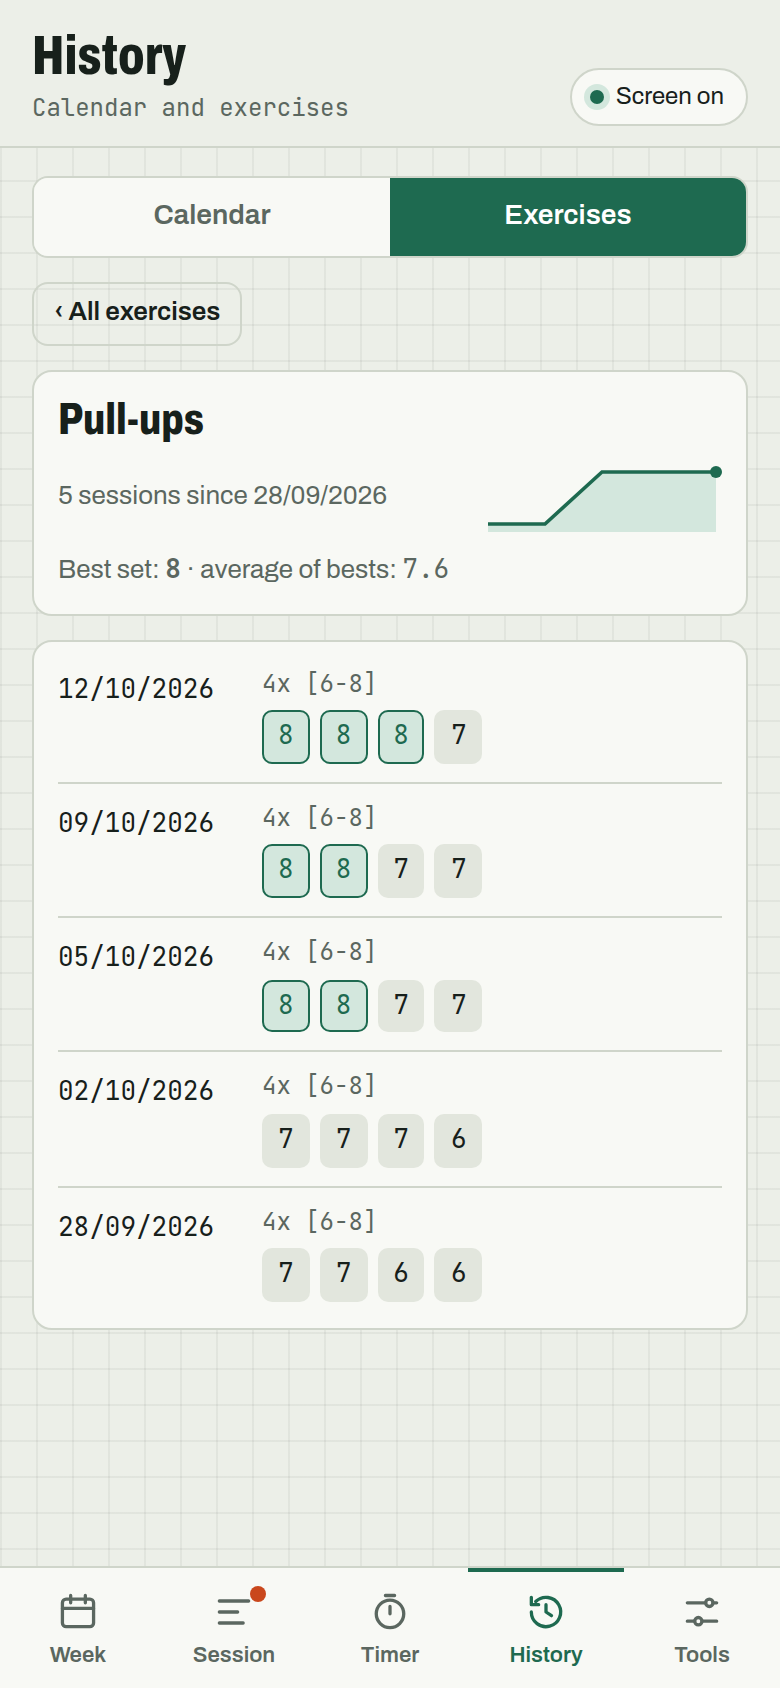
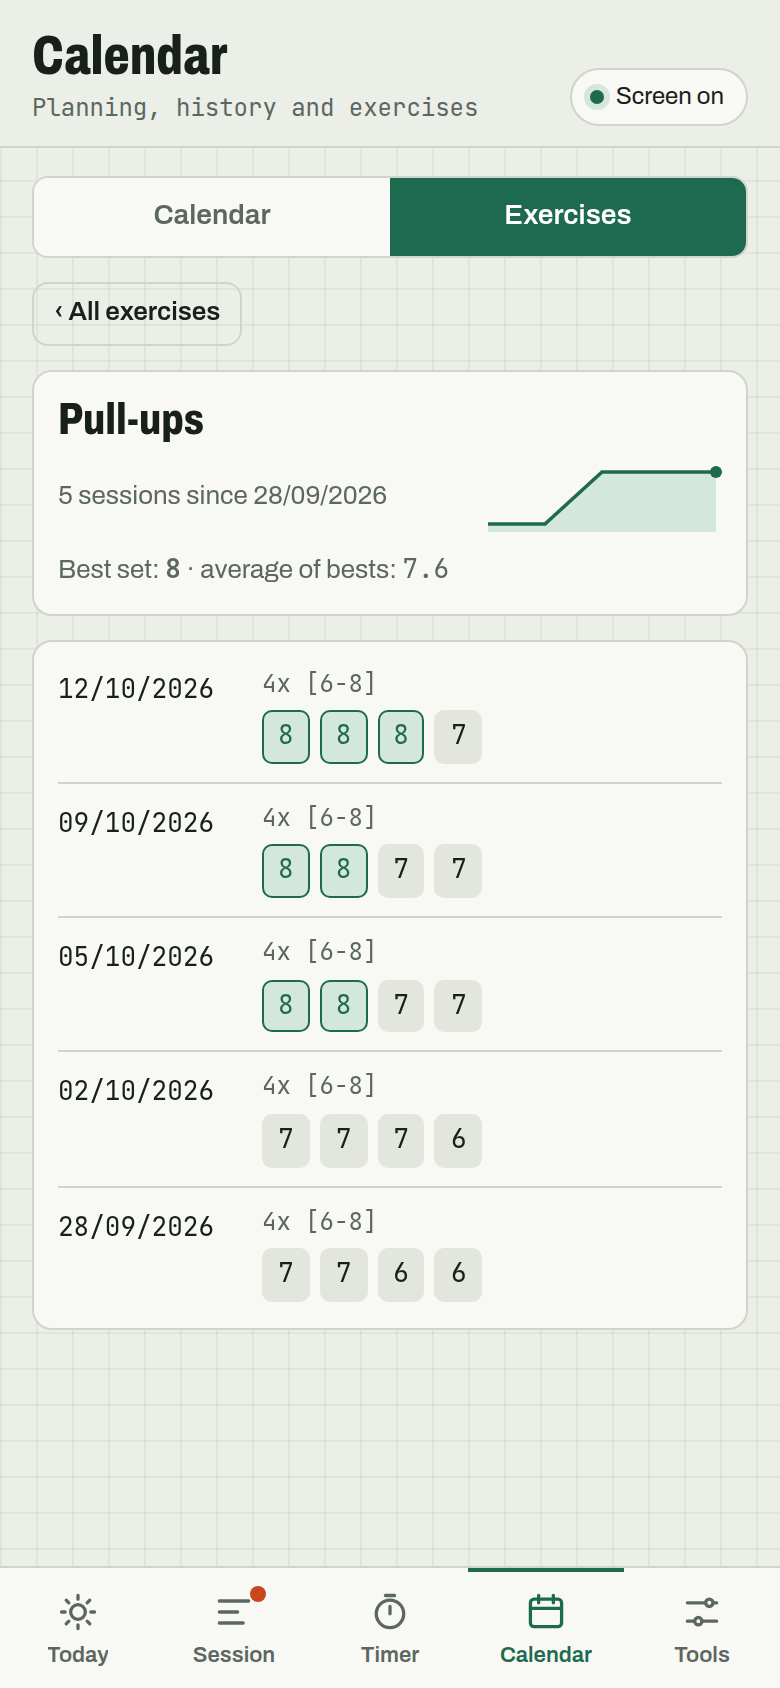
docs(readme): describe planning, Today view and focused sessions with new screenshots

diff --git a/README.md b/README.md
@@ -21,20 +21,25 @@ Pull-ups +12kg 4x [5-6] : 6,5,4,4
 The app reads the exercise name, load, number of sets, target range and your results, and highlights the sets that reach the top of the range. It never rejects a line: anything it doesn't understand is kept as a note.
 
 <p align="center">
-  <img src="docs/screenshots/week.png" width="220" alt="Week view: done and planned sessions, cycling and running distance">
-  <img src="docs/screenshots/session.png" width="220" alt="Session in progress: supersets, logged sets and rest timer">
+  <img src="docs/screenshots/today.png" width="220" alt="Today view: blocks planned today and coming up">
+  <img src="docs/screenshots/session.png" width="220" alt="Session in progress: the current superset in focus, logged sets and rest timer">
   <img src="docs/screenshots/timer.png" width="220" alt="Jump rope interval timer, 60 s work / 20 s rest">
 </p>
 <p align="center">
-  <img src="docs/screenshots/calendar.png" width="220" alt="Monthly calendar of sessions and activities">
+  <img src="docs/screenshots/calendar.png" width="220" alt="Calendar with done sessions, activities and planned blocks">
   <img src="docs/screenshots/exercise.png" width="220" alt="Exercise history with its progress curve">
   <img src="docs/screenshots/import.png" width="220" alt="Notes import: preview of the recognised days">
 </p>
 
 ## What it does
 
+**Planning**
+- Your program is written as plain text. Each heading becomes a block: a strength session, yoga, a run.
+- You place blocks on the calendar, move them when your week shifts, repeat one over the week, or plan your typical week in one tap.
+- The Today screen shows what is planned today, what you've done and what comes next. Opening a block shows its content without starting anything.
+
 **During a session**
-- Your program, written as plain text, suggests each day's session: blocks, supersets, targets and rest times.
+- One block at a time: the current exercise stays in focus and the app moves to the next block once its sets are logged.
 - Logging a set starts the rest timer, with 3-2-1 beeps and a vibration at the end.
 - A hold timer measures a plank or a front lever and fills in the value for you.
 - "Bonus" blocks can be skipped with one tap when time runs short.
@@ -45,7 +50,7 @@ The app reads the exercise name, load, number of sets, target range and your res
 - Outside activities (cycling, running, hiking, climbing, yoga…) take two taps to add, with duration, distance and pace.
 
 **Afterwards**
-- A monthly calendar shows sessions, activities and distances.
+- The calendar shows done sessions, activities and distances alongside what is planned.
 - Each exercise has its own history and curve; supersets are split into their two exercises.
 - Bulk import takes weeks of notes pasted as they are, with a preview before anything is saved.
 - A week exports to Markdown (Obsidian-friendly), or to a review prompt ready to paste into an AI assistant, with your context, program and progress.
@@ -109,7 +114,7 @@ Superset B · bonus | 3 rounds | rest 1:30
 - Running : 3-4 km easy
 ```
 
-A heading that starts with a weekday suggests that session on that day. Without a weekday, the template is available any time. `core` marks a block you always do, `bonus` one you can skip, `skill` a technique block that gets the longer rest. An example program loads on first launch.
+Each heading is a block you can plan on any day. A heading that starts with a weekday is part of your typical week, which "Plan the typical week" places in one tap; you can still move those blocks afterwards. `core` marks a block you always do, `bonus` one you can skip, `skill` a technique block that gets the longer rest. An example program loads on first launch.
 
 ## Running the project
 
